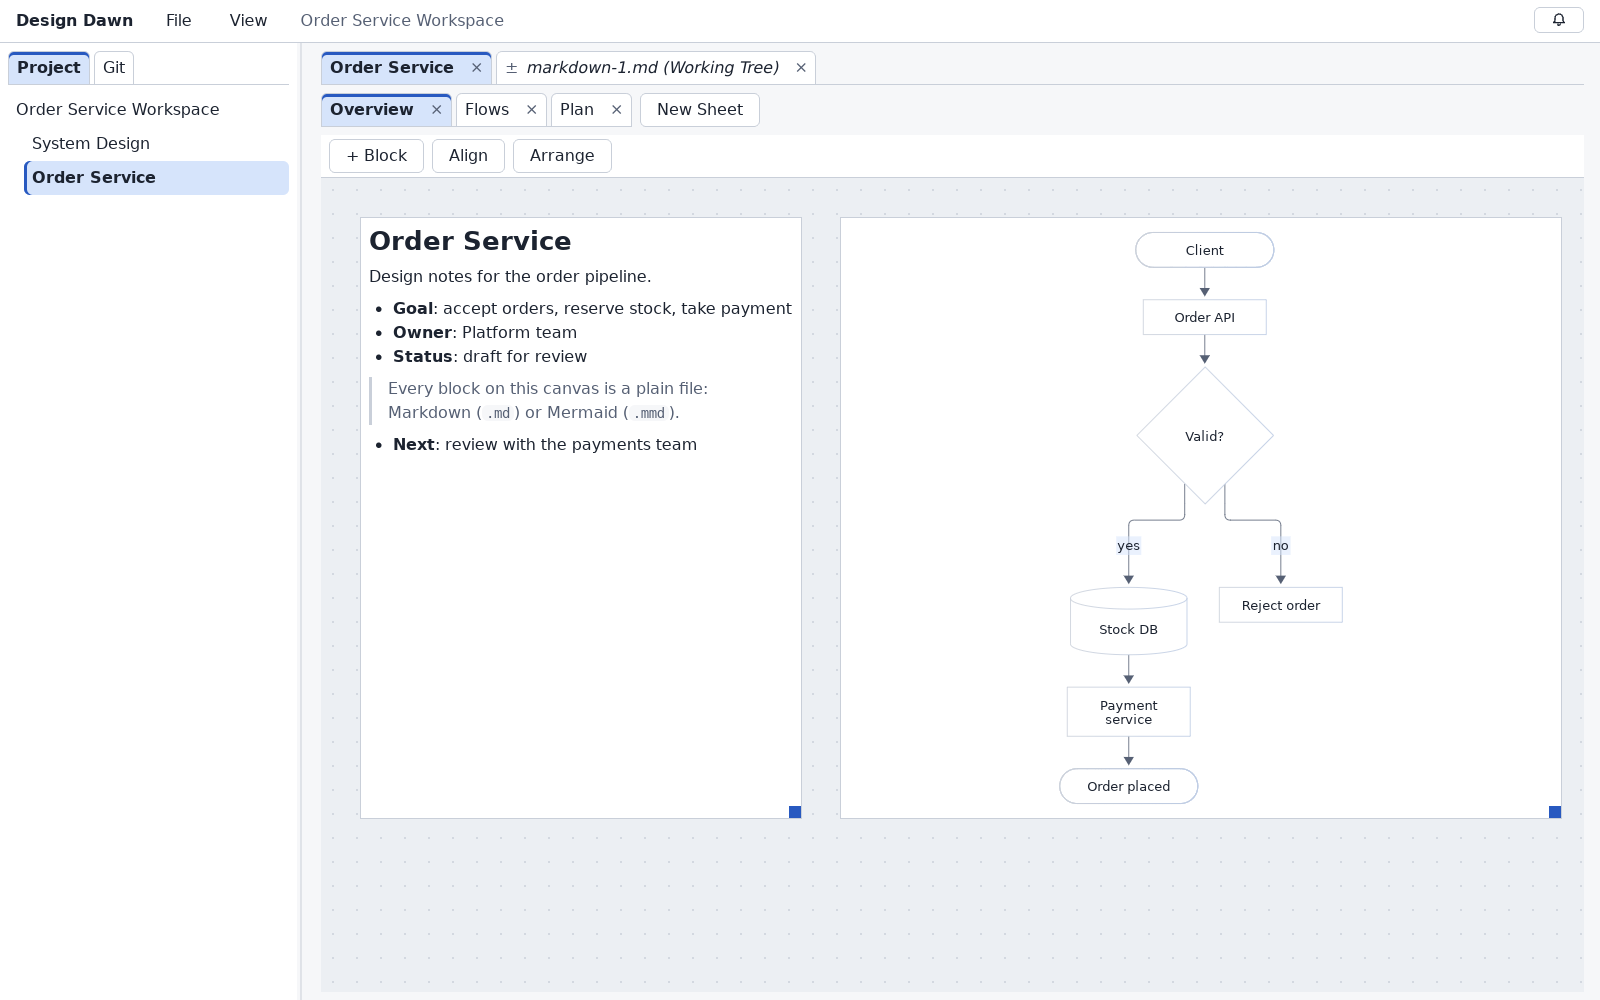
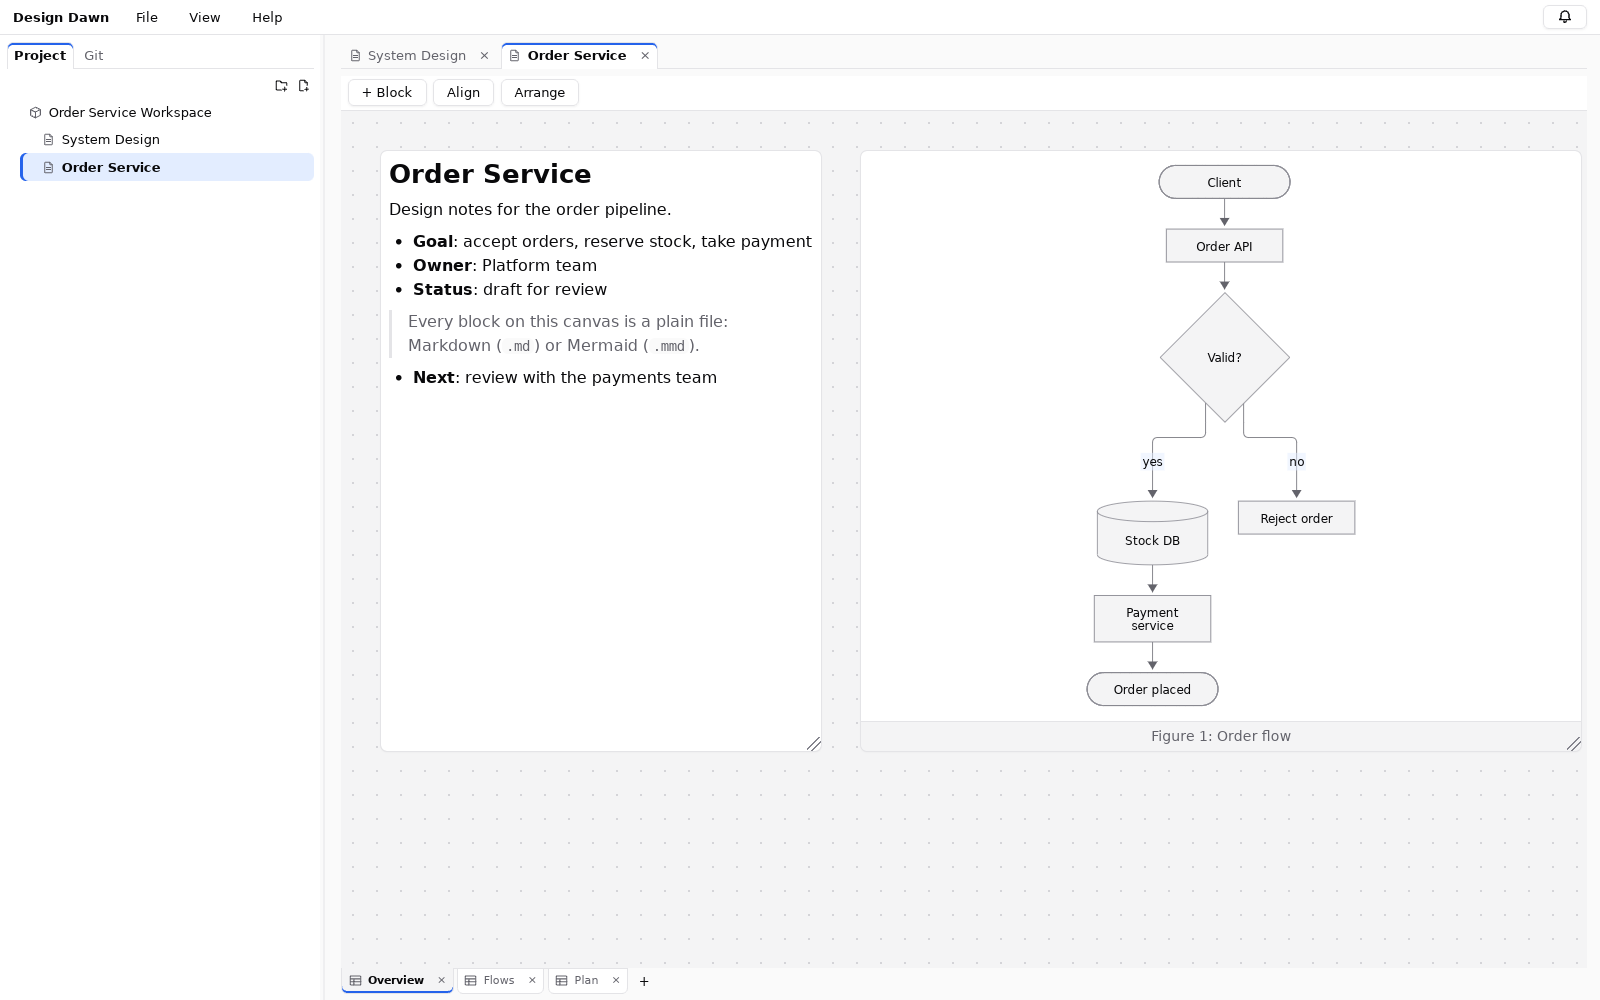
docs: new README screenshots and the AI permission flow
- Screenshots retaken with the current UI (captions, GUI-first editors with shape menus,
  sheet tabs at the bottom, resize grip), plus the AI Integration screen and the prompt an
  AI's edit request opens.
- README describes requestWriteAccess and the in-app answer.

diff --git a/README.md b/README.md
@@ -7,7 +7,7 @@ A document is a set of sheets; each sheet holds freely placed blocks of **Markdo
 diagrams** and **images**. Everything is stored as ordinary files and folders, so the same project
 can be read and edited by people, reviewed with Git, and changed safely by AI tools.
 
-![A design document with Markdown and a Mermaid flowchart on the canvas](assets/screenshots/overview-dark.png)
+![A design document with Markdown and a captioned Mermaid flowchart on the canvas](assets/screenshots/overview-dark.png)
 
 > **Status**: pre-release, developed and tested on Linux (WSL2 + WSLg). Windows and macOS builds
 > have not been verified yet.
@@ -22,9 +22,10 @@ can be read and edited by people, reviewed with Git, and changed safely by AI to
 - **Mermaid blocks** — any Mermaid 12 diagram, rendered locally and sanitised (no network, no
   scripts).
 - **Mermaid GUI editor** — edit pie charts, flowcharts, sequence diagrams and gantt charts with
-  lists and property fields instead of syntax. The Mermaid source stays the single source of
-  truth: each GUI edit changes only the bytes it must, is checked by re-reading the result and
-  rendering it, and is one undo step. Anything the editor does not fully understand stays
+  lists and property fields instead of syntax; right-click a shape in the diagram to edit or
+  delete it, and add elements in a dialog with a preview. Diagrams and images can have a caption.
+  The Mermaid source stays the single source of truth: each GUI edit changes only the bytes it
+  must, is checked by re-reading the result and rendering it, and is one undo step. Anything the editor does not fully understand stays
   read-only rather than being rewritten.
 - **Image blocks** — PNG, JPEG, WebP, SVG and GIF, added by drag and drop.
 - **Git integration** — status, stage/unstage, commit, history, side-by-side diffs in tabs,
@@ -32,8 +33,9 @@ can be read and edited by people, reviewed with Git, and changed safely by AI to
 - **External changes** — edits made by another editor, Git or an AI tool are detected; documents
   without unsaved work reload automatically, otherwise you choose to reload, keep your version or
   compare.
-- **AI / MCP** — `design-dawn-mcp`, a local MCP server (stdio only, read-only by default) that lets
-  AI clients such as Claude Code read and edit documents, sheets and blocks.
+- **AI / MCP** — `design-dawn-mcp`, a local MCP server (stdio only) that lets AI tools such as
+  Claude, Codex, GitHub Copilot or Cursor read and edit the projects you offer to them. Every
+  project is read-only for AI until you allow editing, in the app or when the AI asks.
 - **Load issue repair and format migration** — inconsistencies found when a project is opened
   (missing or unlisted items, duplicate IDs, orphan files, leftovers of an interrupted save) can be
   repaired from the notification panel; files written by older versions are read and upgraded on
@@ -42,7 +44,7 @@ can be read and edited by people, reviewed with Git, and changed safely by AI to
 
 | Flowchart GUI editor | Sequence diagram GUI editor |
 |---|---|
-| ![Flowchart editor with node list and property panel](assets/screenshots/flowchart-gui.png) | ![Sequence diagram editor with participants and messages](assets/screenshots/sequence-gui.png) |
+| ![Flowchart GUI editor with its node list and the right-click menu of a node](assets/screenshots/flowchart-gui.png) | ![Sequence diagram GUI editor with a selected message and its right-click menu](assets/screenshots/sequence-gui.png) |
 
 | Markdown editing | Git diff |
 |---|---|
@@ -51,6 +53,10 @@ can be read and edited by people, reviewed with Git, and changed safely by AI to
 | Gantt and pie charts | Light theme |
 |---|---|
 | ![Gantt chart and pie chart on a sheet](assets/screenshots/plan.png) | ![The overview sheet in the light theme](assets/screenshots/light-theme.png) |
+
+| AI integration (MCP) | An AI asks for edit permission |
+|---|---|
+| ![AI Integration screen with the command to register and the projects offered to AI](assets/screenshots/ai-integration.png) | ![The app asking whether an AI may edit a project](assets/screenshots/ai-request.png) |
 
 ## How a project is stored
 
@@ -175,11 +181,15 @@ is added. The AI can list the added Projects (`listProjects`) and choose one (`s
 so "summarize the order-service Project" works without registering anything again.
 
 **Permissions**: an added Project is read-only for AI until you tick **Allow editing by AI**
-next to it. Only the app changes this list (it is kept in the app's settings folder as
+next to it. An AI can also ask (`requestWriteAccess`): the app then asks you to **Allow**,
+**Allow This Time** (until the app closes) or **Don't Allow**, and only your answer counts. The
+Project open in the app can be asked for too; allowing it adds it to the list. After a "no",
+requests for that Project are ignored for a while. Only the app changes this list (it is kept in the app's settings folder as
 `ai-access.json`, never inside a Project), so an AI cannot add a Project or grant itself
 access. The screen also removes a Project from the list.
 
-- **Tools**: `listProjects`, `selectProject`, `getProject`, `getDocument`, `getSheet`, `getBlock`;
+- **Tools**: `listProjects`, `selectProject`, `requestWriteAccess`, `getProject`, `getDocument`,
+  `getSheet`, `getBlock`;
   for writable Projects also `createDocument`, `createSheet`, `createBlock` (Markdown or Mermaid),
   `updateDocument`, `updateSheet`, `updateBlock`, `moveBlock`, `updateBlockCaption` (the caption
   of a Mermaid or Image block), `deleteBlock`.
